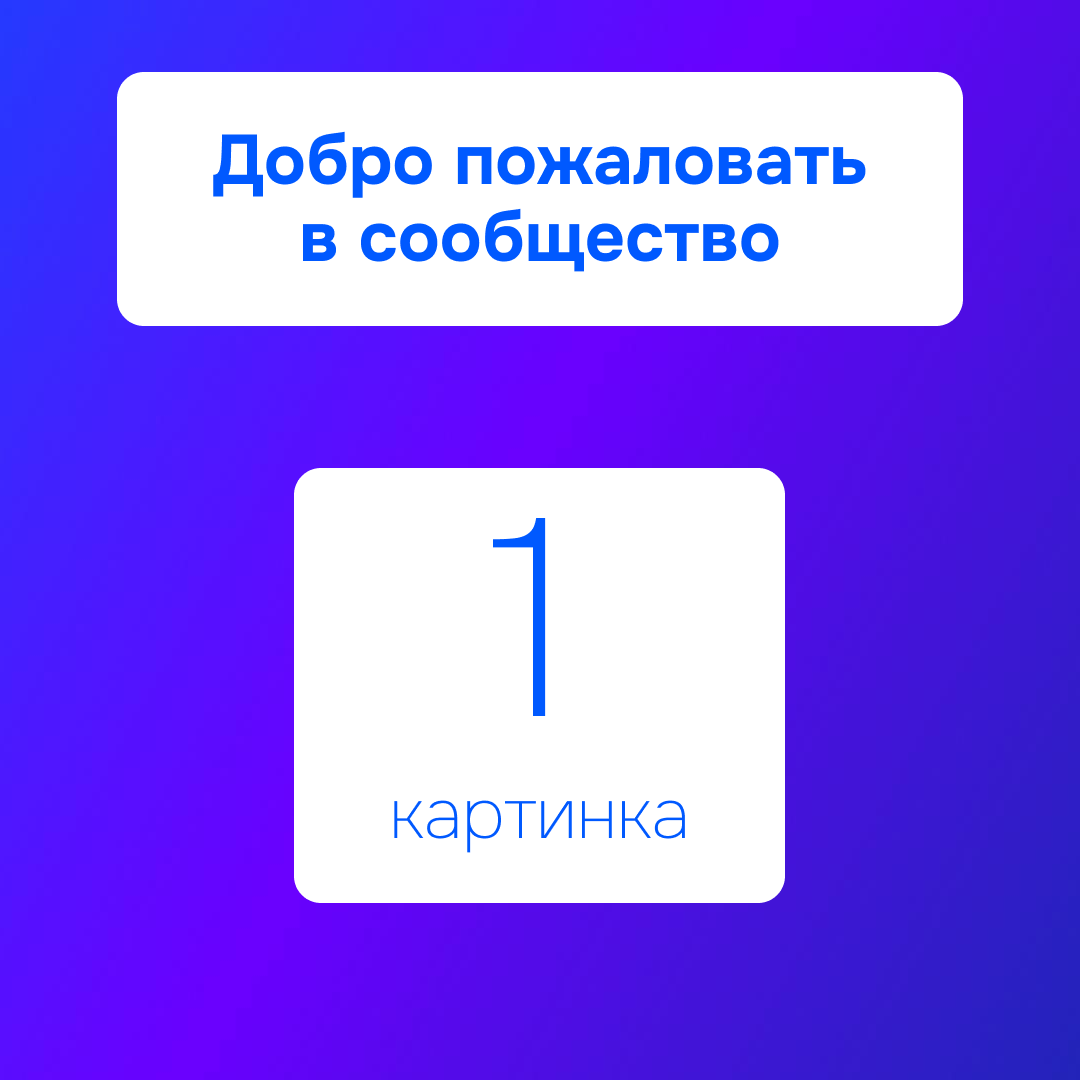
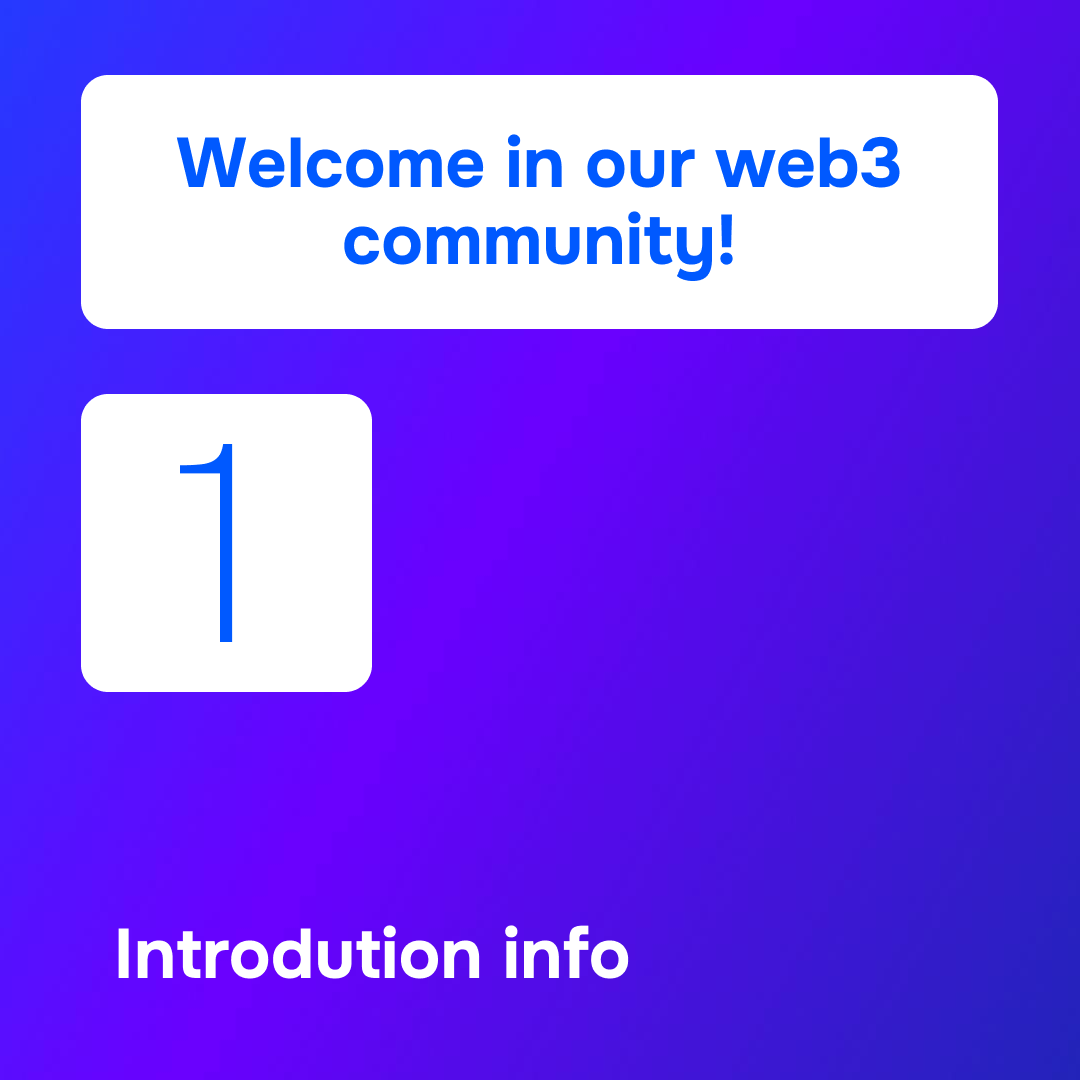
big update, more changes in handlers

diff --git a/handlers.py b/handlers.py
@@ -40,19 +40,19 @@ class Questions(StatesGroup):
 
 # Пример enum для интересов
 class InterestsEnum(Enum):
-    SPORTS = "Спорт"
-    MUSIC = "Музыка"
-    ART = "Искусство"
-    TECHNOLOGY = "Технологии"
-    TRAVEL = "Путешествия"
+    WEB3 = "Web3"
+    SAFE_TECHNOLOGY = "SAFE Technologies"
+    DAO = "DAOs"
+    TRADING = "Trading"
+    AI = "AI"
+    SMART_CONTRACTS = "Smart Contracts"
     FOOD = "Еда"
     GAMING = "Игры"
     SCIENCE = "Наука"
-    
+
+
 
 # Фабрика callback_data для интересов
-
-
 intersts_dict = {i.name: {"text": i.value, 'state':'off'} for i in InterestsEnum}
 
 hello_photo_list = ["images/image1.png","images/image2.png"]
@@ -68,10 +68,8 @@ async def start_handler(message: types.Message, state: FSMContext):
             message.from_user.first_name,
             message.from_user.last_name
         )
-    await message.answer(
-#         """<pre language="welcome">
-# in our web3 community</pre>"""
-        """```welcome
+    
+    album_caption = """```welcome
 in our web3 community```
 
 *This bot will help you:*
@@ -80,10 +78,16 @@ in our web3 community```
 - It's better to join our community
 - To answer your questions about web3
 
-```But 
-let's begin with an introduction. Can you tell me your name?```
+```But let's begin with an introduction. Can you tell me your name?```
 """
-,parse_mode="Markdown")
+
+    # Отправляем альбом с фотографиями (или текст, если фотографий нет)
+    if not hello_photo_list:
+        await message.answer(album_caption)
+    else:
+        album = get_album(hello_photo_list, album_caption)
+        await message.answer_media_group(media=album.build())
+
     # Устанавливаем FSM‑состояние
     await state.set_state(Registration.waiting_for_name)
 
@@ -94,38 +98,26 @@ async def process_name(message: types.Message, state: FSMContext):
     is_valid = await validate_name(name)
     if not is_valid:
         await message.answer(
-            "Кажется, это не похоже на корректное имя. Укажите другое или введите 'аноним'."
+            "It doesn't seem like the right name. Please specify another name"
         )
         return
     
     user = await get_user_without_session(message.from_user.id)
     if user:
-        # Если пользователь решил быть анонимом:
-        if name.lower() in ["аноним", "гость"]:
-            user.first_name = "Аноним"
-            user.last_name = ""
-        else:
-            user.first_name = name
-        # Пример «логического» статуса в user.state (не путать с fsm_state):
-        user.state = "Registered"
-        user.balance += 10
-        # await session.commit()
-
-    album_caption = "<b>Добро пожаловать в наше сообщество!</b> \n\n Вам зачислено 10 токенов."
-    
-    # Отправляем альбом с фотографиями (или текст, если фотографий нет)
-    if not hello_photo_list:
-        await message.answer(album_caption)
-    else:
-        album = get_album(hello_photo_list, album_caption)
-        await message.answer_media_group(media=album.build())
+        user.first_name = name
+    # Пример «логического» статуса в user.state (не путать с fsm_state):
+    user.state = "Registered"
+    user.balance += 10
 
     # Отправляем клавиатуру для перехода в чат
-    button = InlineKeyboardButton(text="Вступить в чат", url=CHAT_LINK)
+    button = InlineKeyboardButton(text="Join the chat", url=CHAT_LINK)
     keyboard = types.InlineKeyboardMarkup(row_width=2, inline_keyboard=[[button]])
 
     await message.answer(
-        "Нажмите на кнопку, чтобы вступить в чат.",
+        """*Nice to meet you!*
+        
+        ```click
+on the button to join the chat.```""",
         reply_markup=keyboard
     )
     await state.clear()
@@ -142,7 +134,7 @@ async def schedule_interests(message: Message):
 
     await message.bot.send_message(
         chat_id,
-        """<pre><code class="language-welcome">
+        """<pre class="language-welcome">
 in our web3 community"""
         "Добрый день!\n\nУкажите ваши интересы:",
         reply_markup=keyboard

diff --git a/gpt_manager.py b/gpt_manager.py
@@ -14,23 +14,22 @@ client = AsyncOpenAI(api_key=OPENAI_API_KEY)
 
 async def validate_name(name: str) -> bool:
     """
-    Проверяет, является ли переданный текст корректным именем или сигналом для анонимной регистрации.
+    They send you a name, if it's a name, then write "yes", if it's not a name, then send "no".
     """
     prompt = (
-        f"Является ли '{name}' корректным именем человека? Если текст указывает на желание "
-        f"анонимной регистрации (например, 'аноним' или 'гость'), ответь 'да'."
+        f""""if it's that word: {name} is name, then write "yes", if it's not a name, then send "no" """
     )
     response = await client.chat.completions.create(
         model="gpt-3.5-turbo",
         messages=[
-            {"role": "system", "content": "Ты проверяешь корректность имени."},
+            {"role": "system", "content": """hey send you a name, if it's a name, then write "yes", if it's not a name, then send "no"."""},
             {"role": "user", "content": prompt},
         ],
     )
     # Получаем ответ из pydantic-модели
     answer = response.choices[0].message.content.lower()
     print(answer)
-    return "да" in answer
+    return "yes" in answer
 
 async def analyze_feedback(feedback: str) -> str:
     """

diff --git a/main.py b/main.py
@@ -27,7 +27,7 @@ async def main():
     # dp = Dispatcher(storage=MemoryStorage())
     bot = Bot(token=BOT_TOKEN,
                 default=DefaultBotProperties(
-                parse_mode=ParseMode.HTML)
+                parse_mode=ParseMode.MARKDOWN)
             )
     dp = Dispatcher(storage=storage)
     # dp.include_router(router_debug)
